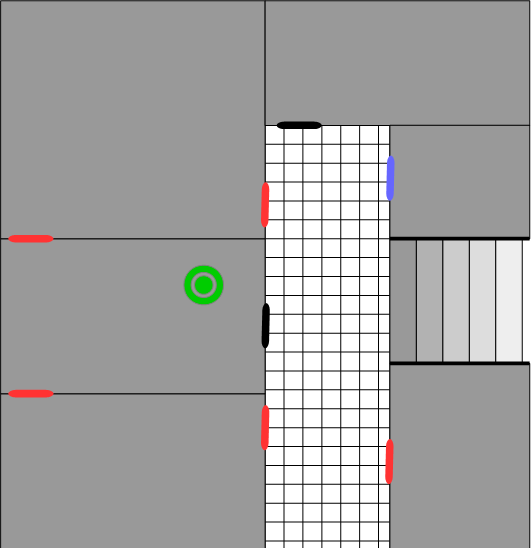
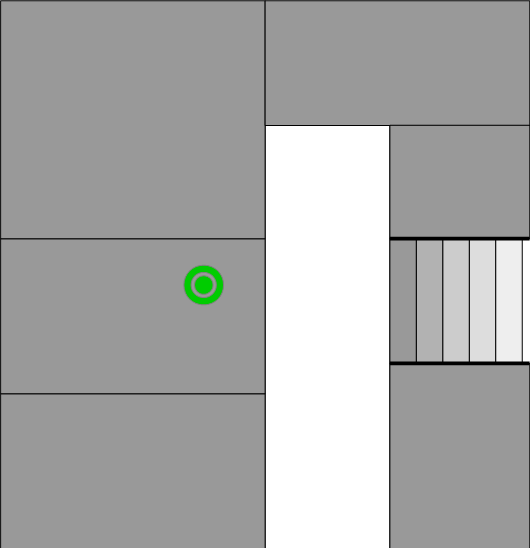
Map

diff --git a/JS/Door.js b/JS/Door.js
@@ -1,0 +1,59 @@
+class Door{
+
+	constructor(id,vertical){
+		this.state=0;
+		this.id="door"+id;
+		this.x=531;
+		this.y=548;
+		this.vertical=vertical;
+	}
+
+	placer(){
+		var m = document.getElementById("map");
+		var d= document.createElement("img");
+	    d.src="RESOURCES/door_open.png";
+	    d.id=this.id;
+	    d.className="door";
+	    d.style.right=this.x+"px";
+	    d.style.bottom=this.y+"px";
+	    d.style.position="fixed";
+	    if(this.vertical) d.style.transform="rotate(90deg)";
+	    m.appendChild(d);
+	}
+
+	move(x,y){
+		var d = document.getElementById(this.id);
+		if(x>=0 & x<=531){
+			this.x=x
+			d.style.right=this.x+"px";
+		} 
+		if(y>=0 & y<=548){
+			this.y=y
+			d.style.bottom=this.y+"px";
+		} 
+		
+
+	}
+
+	close(){
+		if(this.state==1){
+			var d = document.getElementById(this.id);
+			d.src="RESOURCES/door_closed.png";
+			this.state=0;
+		}
+	}
+
+	open(){
+		if(this.state==0){
+			var d = document.getElementById(this.id);
+			d.src="RESOURCES/door_open.png";
+			this.state=1;
+		}
+	}
+
+	lock(){
+		var d = document.getElementById(this.id);
+		d.src="RESOURCES/door_locked.png";
+		this.state=-1;
+	}
+}

diff --git a/JS/Map1_Scenario.js b/JS/Map1_Scenario.js
@@ -1,0 +1,34 @@
+var m = new Map("RESOURCES/map.png");
+
+var d1 = new Door(1,false);
+d1.placer();
+d1.move(480,305);
+
+var d2 = new Door(2,false);
+d2.placer();
+d2.move(480,150);
+
+var d3 = new Door(3,true);
+d3.placer();
+d3.move(245,340);
+
+var d4 = new Door(4,true);
+d4.placer();
+d4.move(245,120);
+
+var d5 = new Door(5,true);
+d5.placer();
+d5.move(245,220);
+d5.lock();
+
+var d6 = new Door(6,true);
+d6.placer();
+d6.move(120,80);
+
+var d7 = new Door(7,true);
+d7.placer();
+d7.move(120,365);
+
+var d8 = new Door(8,false);
+d8.placer();
+d8.move(210,420);

diff --git a/JS/Map.js b/JS/Map.js
@@ -1,0 +1,18 @@
+class Map{
+
+	constructor(src){
+		var d =document.createElement("div");
+		d.id="map"
+	    var m = document.createElement("img");
+	    m.src=src;
+	    m.style.right="0%";
+	    m.style.bottom="0%";
+	    m.style.position="fixed";
+	    d.appendChild(m)
+	    getBody.appendChild(d)
+	}
+
+
+	
+
+}

diff --git a/Page.html b/Page.html
@@ -9,4 +9,7 @@
 
     </body>
     <script type="text/jscript" src="JS/element.js"></script>
+    <script type="text/jscript" src="JS/Map.js"></script>
+    <script type="text/jscript" src="JS/Door.js"></script>
+    <script type="text/jscript" src="JS/Map1_Scenario.js"></script>
 </html>

diff --git a/CSS/main.css b/CSS/main.css
@@ -33,3 +33,6 @@
 
 }
 
+.door{
+    height:7px;
+}

diff --git a/JS/element.js b/JS/element.js
@@ -84,5 +84,3 @@ function arrangeCam() {
 
 
 
-
-
